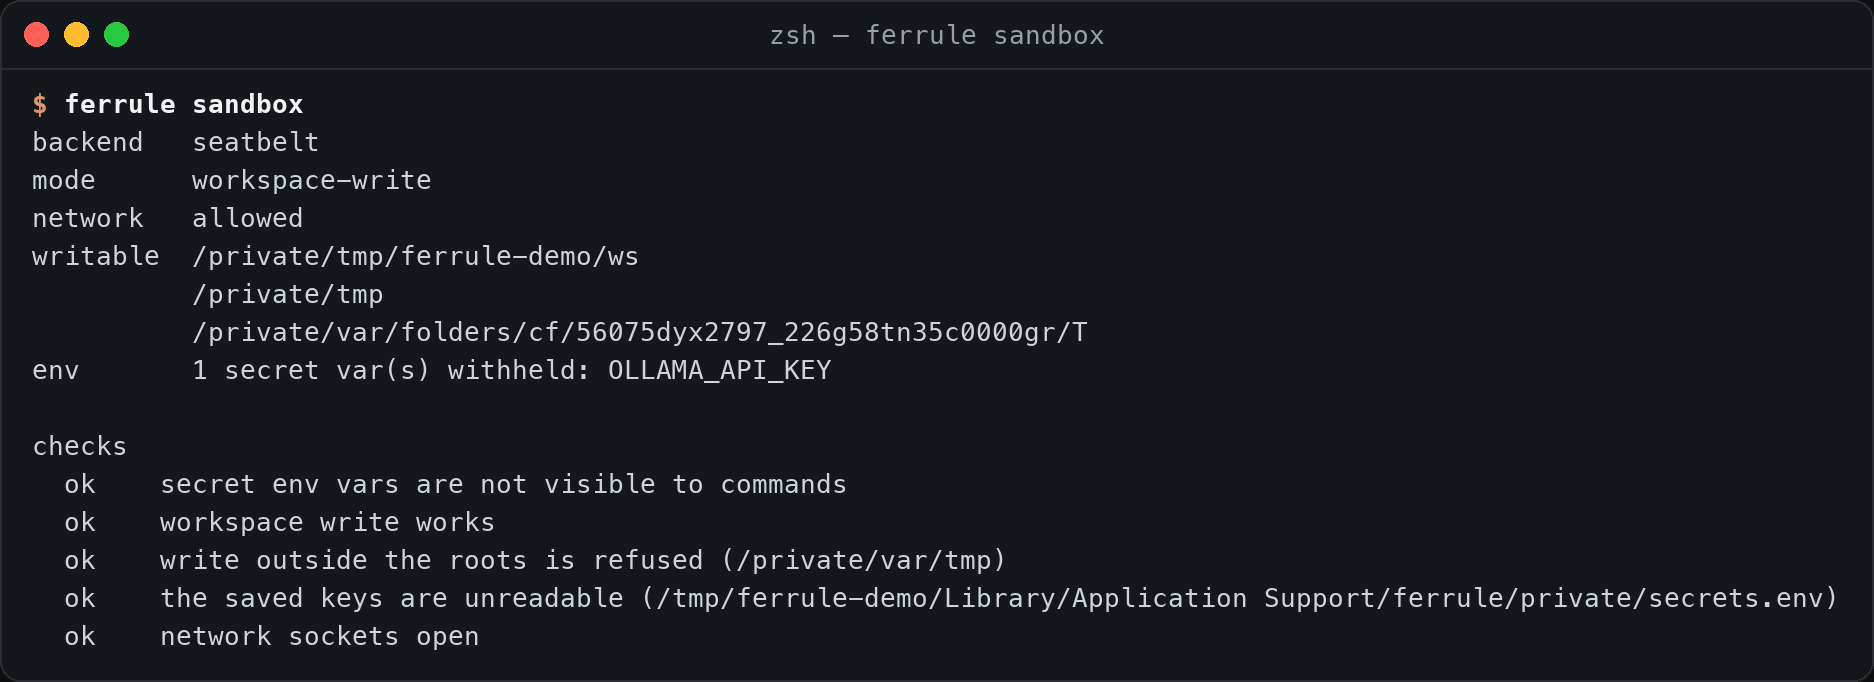
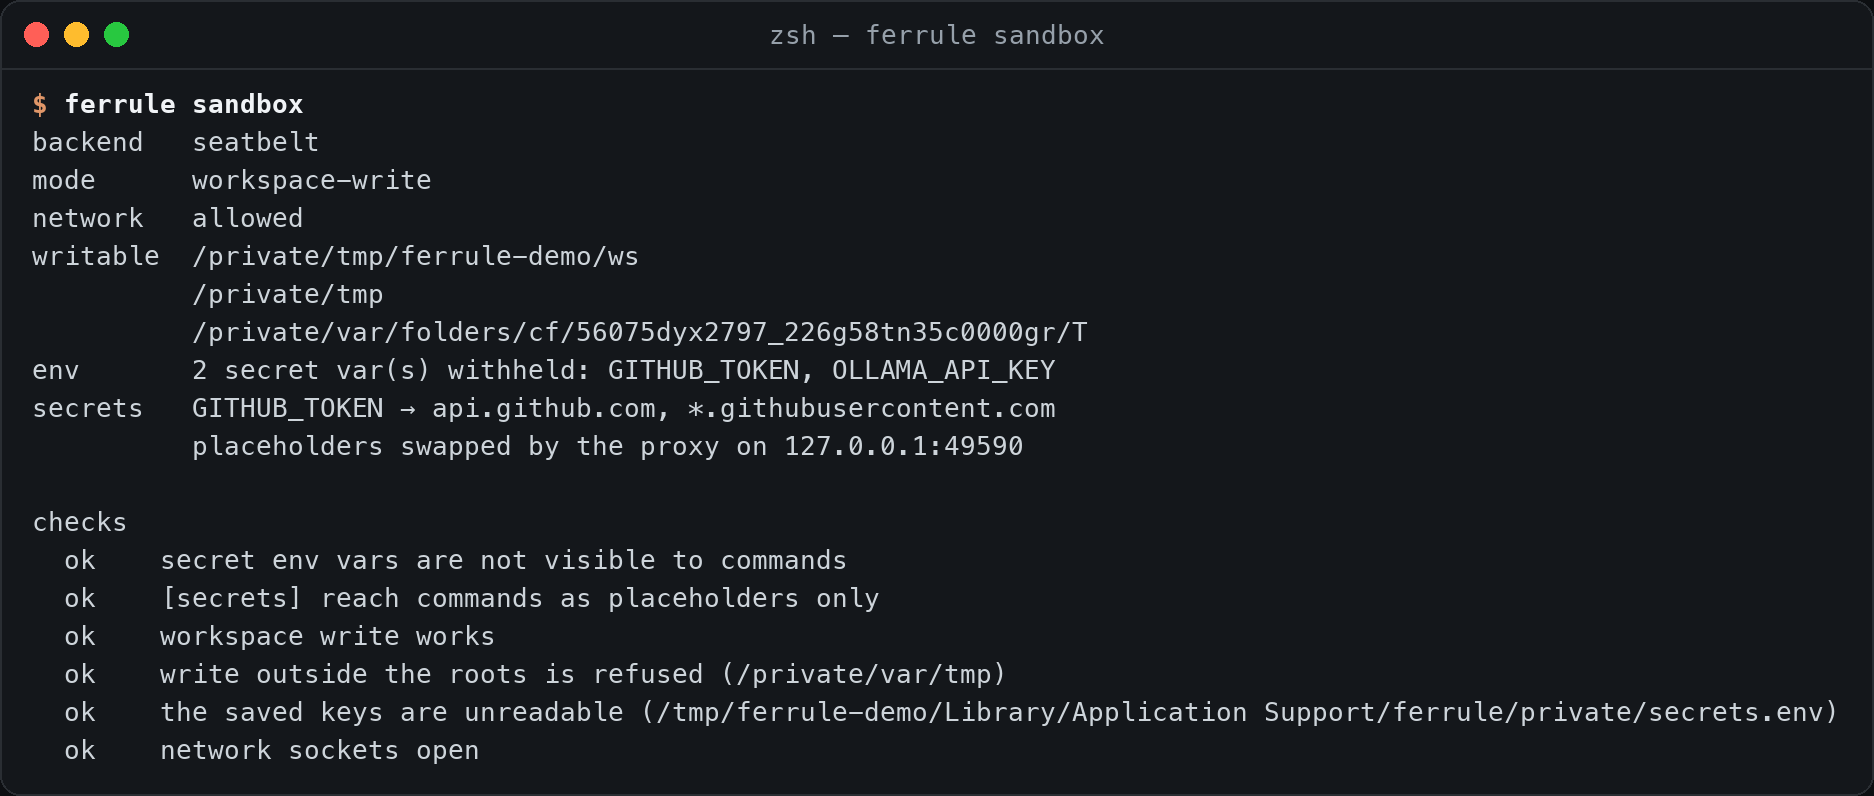
docs: README refresh for M9/M10 — sandboxed MCP, proxied web_fetch, updated roadmap

diff --git a/README.md b/README.md
@@ -12,7 +12,7 @@
   <a href="https://github.com/maximarhipkin/ferrule/releases"><img src="https://img.shields.io/badge/release-v0.1.0-c4764a" alt="release v0.1.0"></a>
   <img src="https://img.shields.io/badge/platforms-Linux%20%C2%B7%20macOS%20%C2%B7%20Windows-8a929a" alt="platforms: Linux, macOS, Windows">
   <img src="https://img.shields.io/badge/binary-~10_MB-8a929a" alt="binary: about 10 MB">
-  <img src="https://img.shields.io/badge/tests-180-8a929a" alt="180 workspace tests">
+  <img src="https://img.shields.io/badge/tests-232-8a929a" alt="232 workspace tests">
 </p>
 
 <p align="center">
@@ -76,17 +76,18 @@ provider is a local model, so no cloud key was involved:
 
 <table align="center">
   <tr>
-    <td><img src="docs/assets/term-doctor.png" alt="ferrule doctor: config, keys, provider, sandbox, binary — all checks green, 'All good.'" width="440"></td>
-    <td><img src="docs/assets/term-sandbox.png" alt="ferrule sandbox: seatbelt backend, workspace-write mode, secret env var withheld, every check ok" width="560"></td>
+    <td><img src="docs/assets/term-doctor.png" alt="ferrule doctor: config, keys, provider, sandbox, mcp, proxy, binary — all checks green, 'All good.'" width="440"></td>
+    <td><img src="docs/assets/term-sandbox.png" alt="ferrule sandbox: seatbelt backend, workspace-write mode, secret env vars withheld, GITHUB_TOKEN bound to its hosts through the proxy, every check ok" width="560"></td>
   </tr>
 </table>
 
 `ferrule doctor` checks the config, the saved keys' file permissions, the
-provider key **live**, Telegram, the sandbox and the background service —
-and each red line comes with the exact fix. `ferrule sandbox` doesn't just
-print the policy, it runs the promises: write inside the workspace works,
-write outside is refused, the saved keys are unreadable, secret env vars
-are withheld.
+provider key **live**, Telegram, the sandbox, the credential-proxy path,
+MCP servers, an installed Chrome and the background service — and each red
+line comes with the exact fix. `ferrule sandbox` doesn't just print the
+policy, it runs the promises: write inside the workspace works, write
+outside is refused, the saved keys are unreadable, secret env vars are
+withheld.
 
 ## Why ferrule wins
 
@@ -139,11 +140,11 @@ between the model and your real tokens — all on by default:
   <img src="docs/assets/security-layers.svg" alt="Four layers: OS sandbox, placeholder tokens, TLS-intercepting loopback proxy, bound hosts only" width="860">
 </p>
 
-1. **An OS sandbox around every shell command** — Landlock + seccomp on
-   Linux, Seatbelt on macOS. Writes are confined to the workspace,
-   secret-looking env vars (`*KEY*`, `*TOKEN*`, `*SECRET*`…) are stripped,
-   and the network can be hard-off via seccomp. (Native Windows has no
-   sandbox yet — [use WSL2](#windows).)
+1. **An OS sandbox around every shell command and stdio MCP server** —
+   Landlock + seccomp on Linux, Seatbelt on macOS. Writes are confined to
+   the workspace, secret-looking env vars (`*KEY*`, `*TOKEN*`, `*SECRET*`…)
+   are stripped, and the network can be hard-off via seccomp. (Native
+   Windows has no sandbox yet — [use WSL2](#windows).)
 2. **Placeholders, not tokens.** Commands see `$GITHUB_TOKEN` as a
    same-shaped placeholder. Saved keys live in `secrets.env` (0600, in a
    0700 directory) that the agent's file tools and sandboxed shell can't
@@ -176,12 +177,12 @@ and [`docs/research-credential-gateway.md`](docs/research-credential-gateway.md)
 | **Agent loop** | ReAct loop with typed lifecycle events, resumable JSONL transcripts, compaction, and reasoning retention. |
 | **Providers** | One OpenAI-compatible driver: Kimi, OpenAI, DeepSeek, OpenRouter, Groq, Ollama, llama.cpp, vLLM. |
 | **Tools** | File read, write and list (workspace-scoped), `shell`, `web_fetch`, `write_todos` and `log_diary`, `remember` and `recall`. |
-| **MCP** | stdio MCP servers. Their tools register as `mcp__<server>__<tool>`. |
+| **MCP** | stdio and Streamable HTTP MCP servers. stdio servers run inside the OS sandbox; remote servers' HTTPS goes through the credential proxy. Tools register as `mcp__<server>__<tool>`. |
 | **Skills** | Agent Skills (`SKILL.md` folders, Claude-compatible), loaded on demand. |
 | **Memory** | One SQLite file: FTS5 BM25 with time decay and token-budgeted recall. |
 | **Gateway** | A long-running daemon with Telegram and local channels, one session lane per chat, resumed across restarts. |
 | **Scheduler** | Cron (with IANA timezone) and one-shot tasks, with gate scripts, no overlapping runs, and a truthful status per run. |
-| **OS sandbox** | Every shell command runs under Landlock (+ seccomp) on Linux or Seatbelt on macOS. Writes are confined to the workspace, and secret env vars are stripped. Native Windows has no sandbox yet ([below](#windows)). |
+| **OS sandbox** | Every shell command and stdio MCP server runs under Landlock (+ seccomp) on Linux or Seatbelt on macOS. Writes are confined to the workspace, and secret env vars are stripped. Native Windows has no sandbox yet ([below](#windows)). |
 | **Credential gateway** | Commands get a placeholder token. A local proxy swaps in the real one only for the hosts you allow. |
 | **Ledger** | Every model call is logged: tokens, cache hits, latency, errors, cost. |
 | **Context baseline** | `AGENTS.md`, `CLAUDE.md`, `GEMINI.md` or `ferrule.md` in the workspace goes into the system prompt. |
@@ -377,29 +378,43 @@ ferrule tasks runs <ID>               # truthful status for every run
 `--gate "script"` runs before the agent wakes. If it prints
 `{"wakeAgent": false}`, the run is skipped at zero token cost.
 
-**MCP servers and skills:**
+**MCP servers** come in two shapes. A stdio server is spawned per its
+`command`, and runs inside the same OS sandbox as the shell: it can write
+the workspace, temp dirs and a state dir of its own, it always has the
+network, and its environment is scrubbed of secrets. `sandbox = false`
+opts out, and `ferrule doctor` flags it. A remote server speaks Streamable
+HTTP over `url`, and its HTTPS goes through the credential proxy — a
+`${VAR}` in a header arrives as the placeholder and is swapped only for
+the hosts that secret is bound to:
 
 ```toml
-[[mcp.servers]]
+[[mcp.servers]]                       # stdio, sandboxed
 name = "fs"
 command = "npx"
 args = ["-y", "@modelcontextprotocol/server-filesystem", "/tmp"]
+
+[[mcp.servers]]                       # Streamable HTTP, through the proxy
+name = "remote"
+url = "https://mcp.example.com/mcp"
+headers = { Authorization = "Bearer ${REMOTE_MCP_TOKEN}" }
 ```
 
-Skills are found in `.ferrule/skills`, `.agents/skills` or `.claude/skills`
-in the workspace, and in `~/.agents/skills` or `~/.claude/skills`.
-`ferrule skills` lists what a workspace would load.
+**Skills** are found in `.ferrule/skills`, `.agents/skills` or
+`.claude/skills` in the workspace, and in `~/.agents/skills` or
+`~/.claude/skills`. `ferrule skills` lists what a workspace would load.
 
 **Cost:** add `price_*_per_mtok` to a provider, then run
 `ferrule ledger --since 7d`.
 
 ## Sandbox
 
-Every command the agent runs through the `shell` tool is sandboxed:
+Every command the agent runs through the `shell` tool is sandboxed, and so
+is every stdio MCP server:
 
 - **Writes:** only the workspace, temp dirs and any `writable_roots` you
-  add.
-- **Network:** on by default, off with `network = false` (seccomp).
+  add. An MCP server also gets a state dir of its own.
+- **Network:** on by default, off with `network = false` (seccomp). MCP
+  servers always have it — most need it.
 - **Env:** variables that look like secrets (`*KEY*`, `*TOKEN*`,
   `*SECRET*`…) and every provider's `api_key_env` are stripped.
 
@@ -447,7 +462,10 @@ How it works:
 
 Limits:
 
-- Only the shell tool goes through the proxy.
+- The `shell` tool, `web_fetch` and remote (Streamable HTTP) MCP servers
+  go through the proxy, and HTTPS only: the proxy speaks CONNECT, so plain
+  HTTP is left alone — injecting into cleartext would put the key on the
+  wire anyway.
 - HTTP/2 and websockets aren't supported on bound hosts.
 - Anything the bound host itself can do with the token, the agent can
   too, so scope tokens tightly.
@@ -462,12 +480,12 @@ are in [`docs/research-credential-gateway.md`](docs/research-credential-gateway.
 crates/
   ferrule-core       agent loop, provider trait, harness profiles, compaction, transcripts
   ferrule-providers  OpenAI-compatible driver
-  ferrule-tools      fs / shell / web_fetch / diary / memory tools
+  ferrule-tools      fs / shell / web_fetch / diary / memory tools, proxied egress
   ferrule-memory     SQLite + FTS5 memory with time decay
   ferrule-gateway    daemon: channels (Telegram, local), session router, scheduler
-  ferrule-mcp        stdio MCP client
+  ferrule-mcp        MCP client: sandboxed stdio servers, Streamable HTTP servers
   ferrule-skills     Agent Skills discovery and loading
-  ferrule-sandbox    OS sandbox for shell commands (Landlock + seccomp / Seatbelt)
+  ferrule-sandbox    OS sandbox for shell commands and MCP servers (Landlock + seccomp / Seatbelt)
   ferrule-proxy      credential gateway: placeholders, TLS-intercepting proxy, scrubbing
   ferrule-cli        the `ferrule` binary
 ```
@@ -475,7 +493,7 @@ crates/
 ## Development
 
 ```bash
-cargo test --workspace                     # 180 tests
+cargo test --workspace                     # 232 tests on Linux, 229 on macOS (the Linux-only ones are cfg'd out)
 cargo test -p ferrule-proxy -- --ignored   # + a live end-to-end run through the real network
 cargo clippy --workspace --all-targets
 python3 tests_e2e/setup_wizard.py          # the wizard in a real terminal (Linux, needs pexpect)
@@ -486,10 +504,10 @@ CI runs the tests on Linux, macOS and Windows. A `v*` tag builds the
 release archives for every platform and publishes them with the install
 scripts.
 
-Please don't run `cargo fmt` over the whole tree. Format only the files
-you touch (`rustfmt --edition 2021 path/to/file.rs`), so diffs stay
-reviewable. [`PLAN.md`](PLAN.md) is the shared working log: current
-state, open gaps and a dated entry for every session.
+The tree has been formatted with `cargo fmt` since M10; keep it that way
+and keep `cargo clippy --workspace --all-targets` clean.
+[`PLAN.md`](PLAN.md) is the shared working log: current state, open gaps
+and a dated entry for every session.
 
 ## Roadmap
 
@@ -508,17 +526,24 @@ state, open gaps and a dated entry for every session.
 - [x] M7: credential gateway
 - [x] M8: one-line install and a setup wizard, Windows support, Telegram
       allow-list
+- [x] M9: never stuck — retries with backoff, a stuck detector, a truthful
+      status at every stop, `verify_command` enforced
+- [x] M10: MCP servers and `web_fetch` under the sandbox and the proxy,
+      Streamable HTTP MCP, a hardened system service on Linux
 
 **Next** (designed, waiting on a decision)
 
+- [ ] M11: a browser for the agent, driving an installed Chrome over MCP
+      ([research](docs/research-autonomy-and-self-extension.md))
+- [ ] M12: multi-agent orchestration — planner, implementer and verifier
+      subagents with isolated contexts that return summaries only
+- [ ] M13: self-extension — the agent installs approved skills and MCP
+      servers for itself
 - [ ] Multi-provider routing, Phase 1: rule-based routing between providers
       by task shape, fed by the ledger
       ([research](docs/research-routing-and-local-models.md))
-- [ ] Multi-agent orchestration: planner, implementer and verifier
-      subagents with isolated contexts that return summaries only
 - [ ] Codex Responses-API and Claude drivers
-- [ ] Sandbox the open edges: file reads, and MCP servers (they get the
-      real environment today)
+- [ ] Sandbox the open edge that remains: file reads
 - [ ] A sandbox for native Windows (AppContainer or a restricted token)
 - [ ] Code-extension plugins
 
@@ -542,4 +567,10 @@ routing, and a plugin system. They're tracked in [`PLAN.md`](PLAN.md).
   multi-provider routing and local fine-tuning, phases and open decisions
 - [`docs/research-credential-gateway.md`](docs/research-credential-gateway.md):
   the credential gateway's design, threat model and limits
+- [`docs/research-autonomy-and-self-extension.md`](docs/research-autonomy-and-self-extension.md):
+  never stuck, the browser, self-extension and speed
+- [`docs/research-deployment-and-isolation.md`](docs/research-deployment-and-isolation.md):
+  deployment shapes and isolation, from a process to a container
+- [`docs/research-windows-sandbox.md`](docs/research-windows-sandbox.md):
+  a native Windows sandbox, tiered by what needs admin
 - [`PLAN.md`](PLAN.md): current state and session log

diff --git a/PLAN.md b/PLAN.md
@@ -1662,3 +1662,25 @@ Verified: all referenced images exist, all relative links resolve, every
 quoted `ferrule` command matches the built binary's `--help`, all SVGs
 parse as XML, and the README re-read end to end against the honesty
 constraints. Nothing committed; `target/` stays untracked.
+
+### 2026-09-24 — README refreshed for M9/M10 (Kimi Code)
+
+Rebased the README sales rewrite onto M10 (`843cd47`) and brought the
+README in line with what actually shipped. Text changes: test badge and
+Development counts 180 → 232 (229 on macOS — the Linux-only tests are
+cfg'd out; verified with `cargo test --workspace` on this Mac: 229 passed,
+0 failed); the MCP row and Sandbox section now cover sandboxed stdio
+servers and Streamable HTTP servers through the credential proxy; the
+credential-gateway "only the shell tool" limit is corrected (`web_fetch`
+and remote MCP go through it too, HTTPS only); the "please don't cargo
+fmt" note is replaced (the tree was fmt'd in `b5fd138`); the roadmap gains
+M9 and M10 under Shipped, and Next gains M11 browser / M12 multi-agent /
+M13 self-extension while the "sandbox MCP servers" open edge is removed
+(file reads remain); the Docs list covers all six research docs.
+`docs/assets/roadmap.svg` redrawn to match (M9/M10 shipped, new Next
+list, taller canvas); `architecture.svg` MCP and sandbox captions updated.
+The `term-*.png` captures were re-captured from a release build of the M10
+code, same method as before (scratch HOME, mock `/v1/models`, Pillow
+renderer). doctor gained `mcp`/`proxy`/`browser` lines and sandbox the
+`[secrets]`/proxy rows, so those two PNGs were re-rendered; `--help`
+output was unchanged, so `term-help.png` is byte-identical and was kept.
